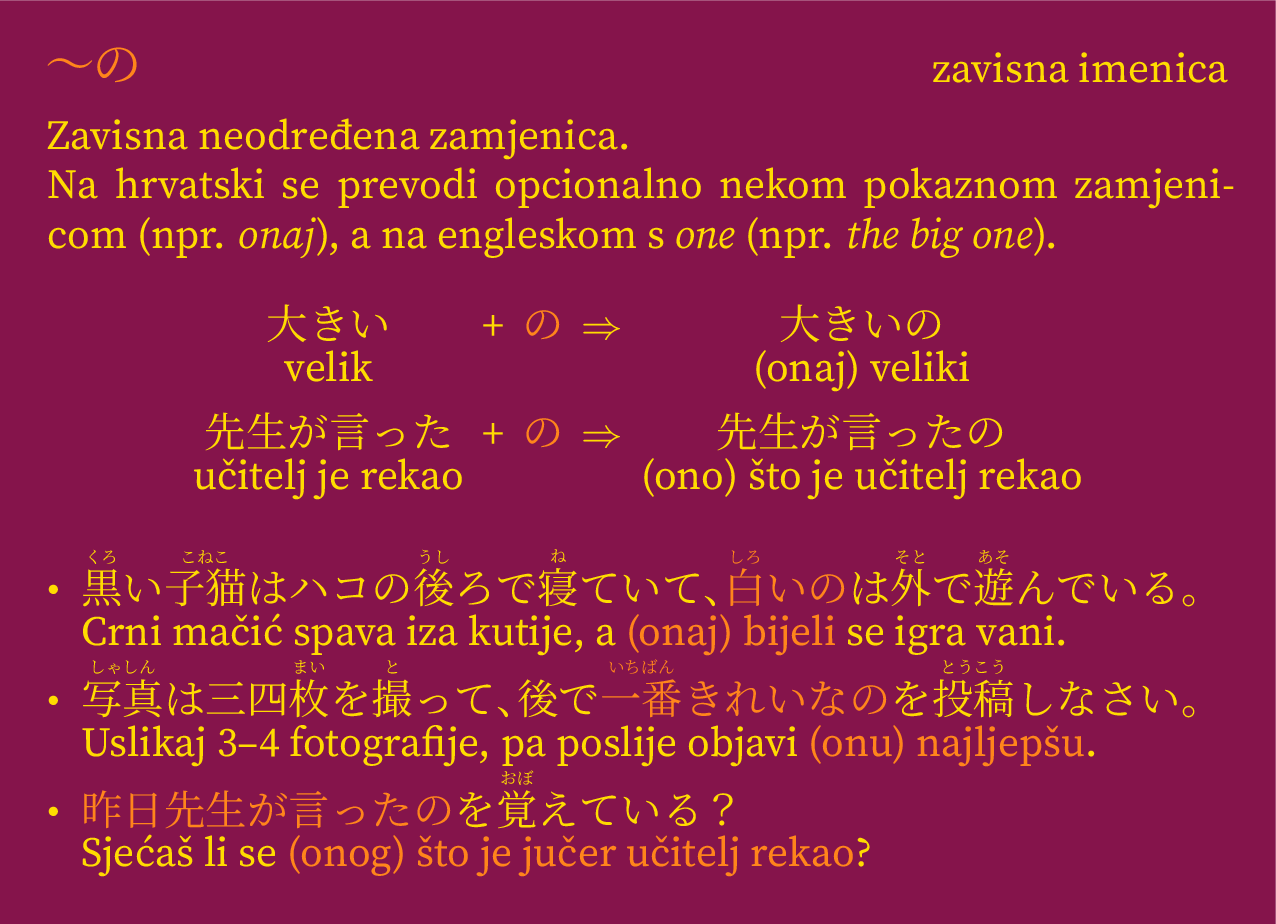
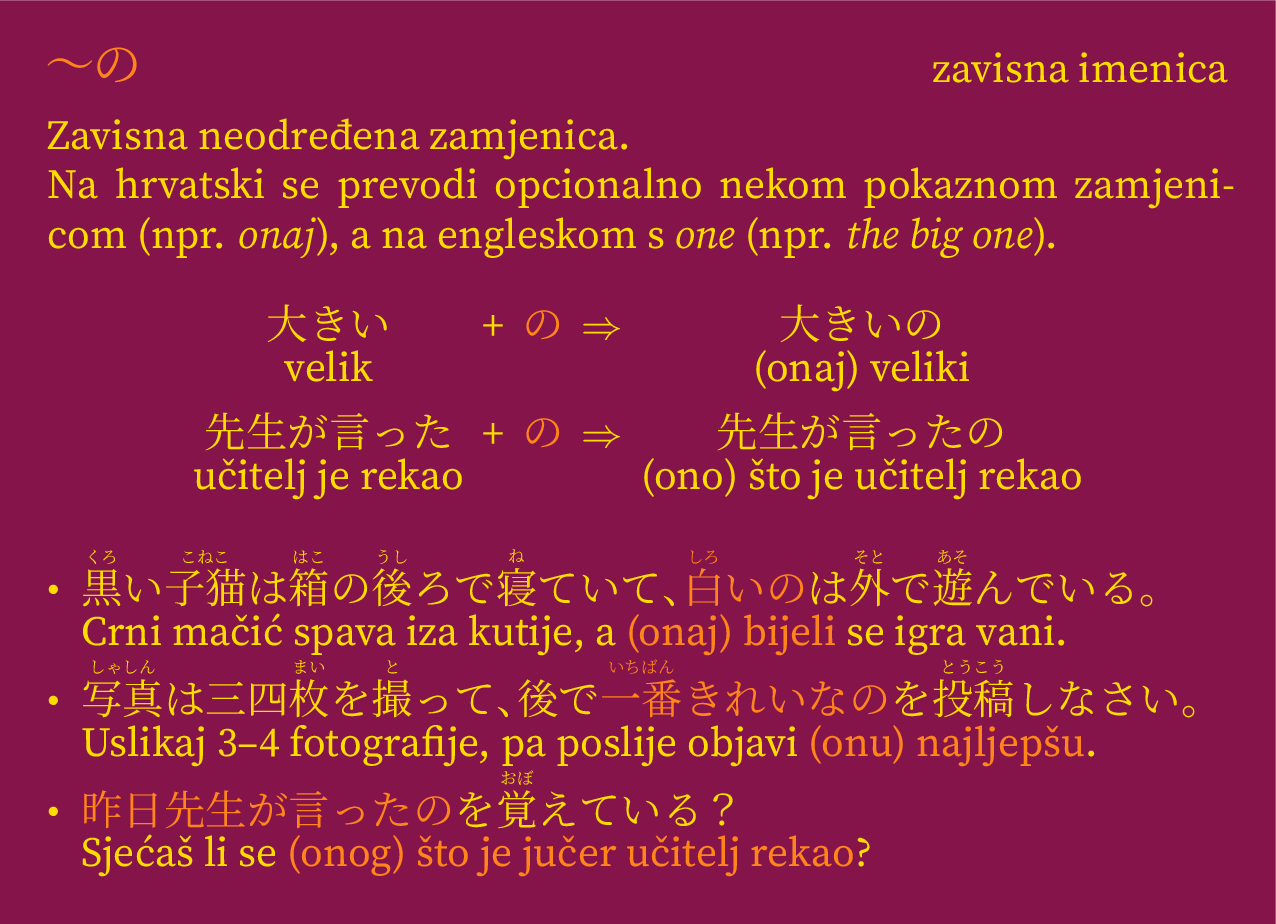
m

Changed region(s): [[0.2139, 0.5758, 0.9169, 0.6667]]

diff --git a/gramatika/primjeri/no.tex b/gramatika/primjeri/no.tex
@@ -16,7 +16,7 @@
 			\end{tabular}
 		\end{table}
 		\begin{itemize}
-			\item \f{黒}{くろ}い\f{子猫}{こねこ}はハコの\f{後}{うし}ろで\f{寝}{ね}ていて、\e{\f{白}{しろ}いの}は\f{外}{そと}で\f{遊}{あそ}んでいる。\bh
+			\item \f{黒}{くろ}い\f{子猫}{こねこ}は\f{箱}{はこ}の\f{後}{うし}ろで\f{寝}{ね}ていて、\e{\f{白}{しろ}いの}は\f{外}{そと}で\f{遊}{あそ}んでいる。\bh
 			Crni mačić spava iza kutije, a \e{(onaj) bijeli} se igra vani.
 			\item \f{写真}{しゃしん}は三四\f{枚}{まい}を\f{撮}{と}って、後で\e{\f{一番}{いちばん}きれいなの}を\f{投稿}{とうこう}しなさい。\bh
 			Uslikaj 3--4 fotografije, pa poslije objavi \e{(onu) najljepšu}.
